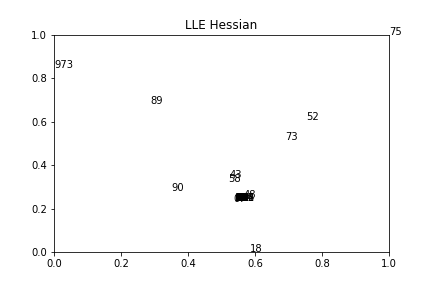
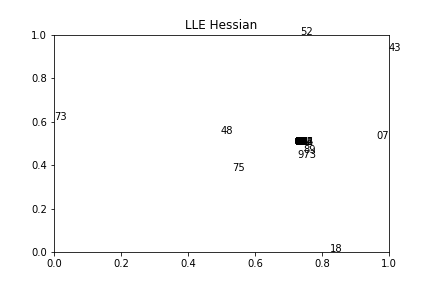
Début du travail de clustérisation (certainement à fusionner avec la réduction)

diff --git a/main.py b/main.py
@@ -25,8 +25,11 @@ import pygal
 import operator
 import matplotlib.pyplot as plt
 import time
-from sklearn import manifold, datasets, decomposition, ensemble, discriminant_analysis, random_projection
 
+from matplotlib import cm
+from sklearn import manifold, datasets, decomposition, ensemble, discriminant_analysis, random_projection
+from sklearn.cluster import KMeans
+from sklearn.metrics import silhouette_score
 
 os.chdir("/home/garance/Bureau/Delinquance")
 
@@ -151,7 +154,7 @@ if not os.path.exists("Visuels/Réduction"):
 
 X=df_Delinquance2.values
 y=df_Delinquance2.index
-n_neighbors=5
+n_neighbors=11
 
 "standardisation et visualisation"
 def plot_embedding(X,title):
@@ -213,7 +216,37 @@ plt.savefig("Visuels/Réduction/Spectral embedding.png")
 
 tsne = manifold.TSNE(n_components=2, init='pca', random_state=0)
 X_tsne = tsne.fit_transform(X)
-plot_embedding(X_tsne, "t-SNE")
+plot_embedding(X_tsne, "TNSE")
+
+
 plt.savefig("Visuels/Réduction/t-SNE.png")
 print("Réduction dimensionnelle :",time.clock()-time4)
 
+
+"Clusterisation"
+val = []
+lamda = []
+reducers = {"Random projection":X_projected, "Projection en composentes principales":X_pca, "Isomap":X_iso, "LLE":X_lle, "LLE Modifiée":X_mlle, "LLE Hessian": X_hlle, "MDS":X_mds,"Random Forrest":X_reduced, "t-SNE":X_tsne}
+for key,value in reducers.items():
+    x_min, x_max = np.min(value, 0), np.max(value, 0)
+    reducer = (value - x_min) / (x_max - x_min)
+    for x in range(5,20):
+        clusterer = KMeans(n_clusters=x, random_state=10)
+        cluster_labels = clusterer.fit_predict(reducer)
+        score = silhouette_score(reducer,cluster_labels)
+        print("for ",x,"clusters, silhouette score = ",score)
+        
+        fig=plt.figure(figsize=(10,5))
+        ax=fig.add_subplot(111)
+        p=ax.scatter(X_tsne[:,0],X_tsne[:,1],c=cluster_labels,cmap=cm.Set1)
+        fig.colorbar(p)
+        plt.show()
+        val.append(x)
+        lamda.append(score)
+    
+    
+    plt.plot(val,lamda)
+    plt.title(key)
+    plt.show()
+    val=[]
+    lamda=[]
